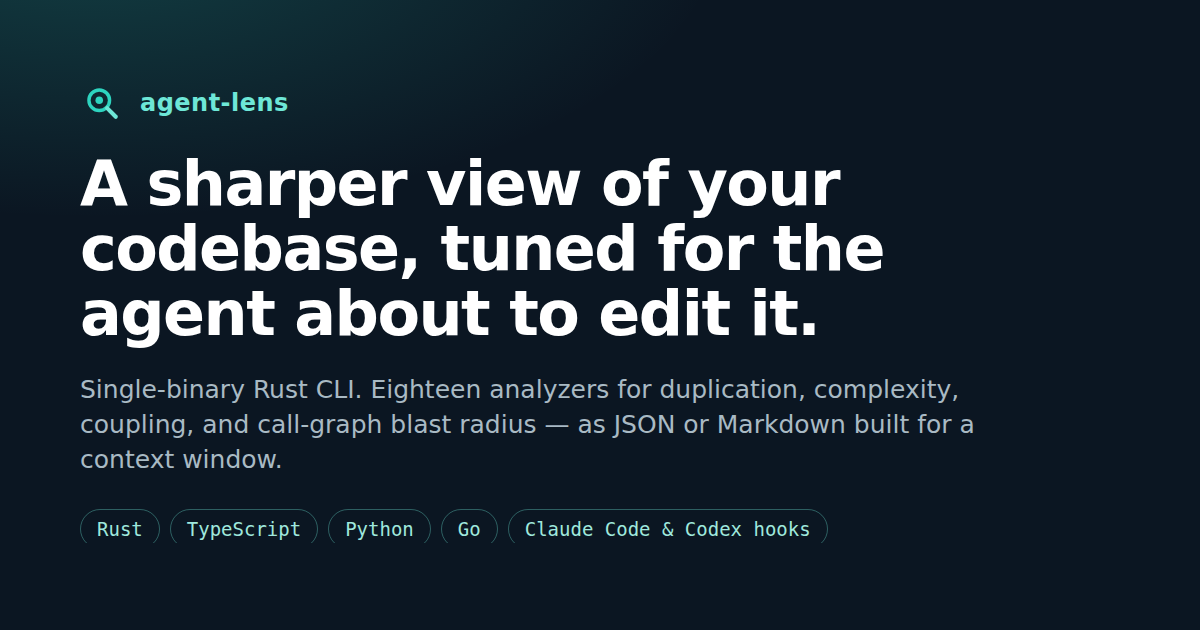
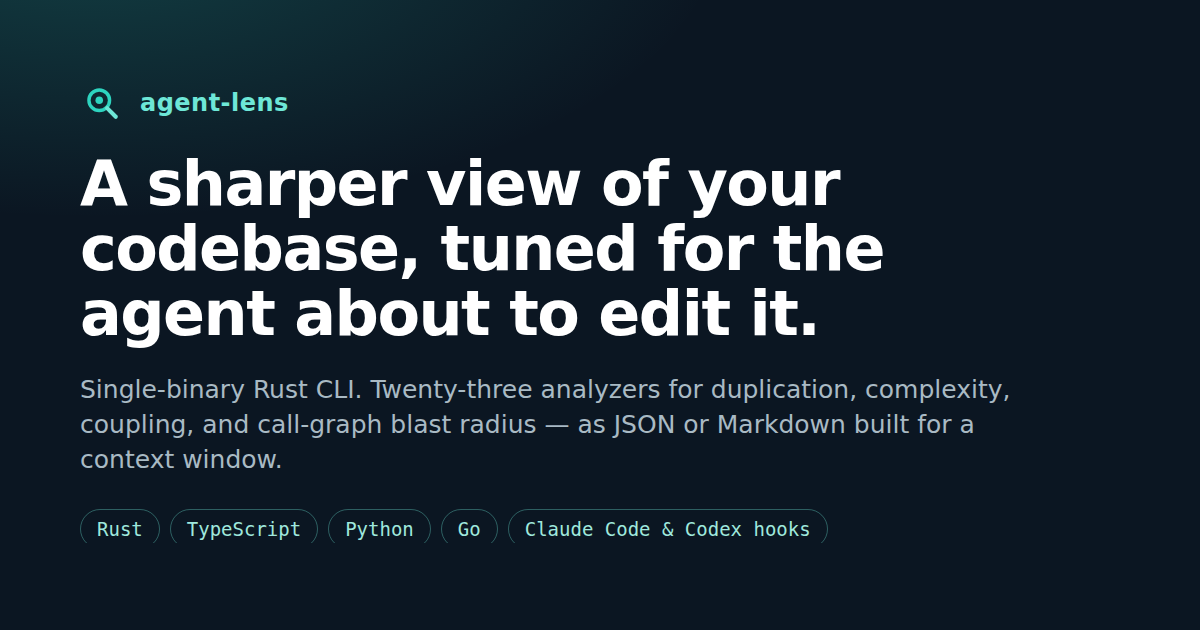
seo(web): refresh stale analyzer copy and complete social meta tags (#476)
The prerendered landing page is what crawlers index, and its copy had
drifted from the CLI it describes: the hero strip said 18 analyzers, the
catalogue heading said eighteen, the pillar card said twenty, while the
CLI ships 23 — with `search` and `change-entropy` missing from the
catalogue entirely. Sync all three numbers to 23, add the two missing
analyzers (a Retrieval group for `search`, `change-entropy` under Change
risk), note the language-agnostic git-history analyzers in the FAQ, and
regenerate the OG card image from the corrected template.

Also fill the remaining social-preview gaps: `og:locale`,
`og:image:alt`, and `twitter:image:alt`, with tests asserting all three
on every page.

Claude-Session: https://claude.ai/code/session_01K11vKKR8g2SBmwFyttVGWA

Changed region(s): [[0.3083, 0.6032, 0.8325, 0.6333]]

diff --git a/web/src/content.ts b/web/src/content.ts
@@ -44,7 +44,7 @@ export type Stat = {
 
 /** The hero strip. Four numbers a reader can check against the repository. */
 export const STATS: readonly Stat[] = [
-  { label: "Analyzers", value: "18" },
+  { label: "Analyzers", value: "23" },
   { label: "Languages", value: "4" },
   { label: "Hook handlers", value: "5" },
   { label: "Telemetry", value: "0" },
@@ -65,7 +65,7 @@ export const PILLARS: readonly Pillar[] = [
   },
   {
     title: "Analyzers",
-    body: "Twenty on-demand analyses of code shape — duplication, complexity, coupling, call-graph structure, change risk. JSON on stdout by default, compact Markdown with --format md, both sized to drop straight into a prompt.",
+    body: "Twenty-three on-demand analyses of code shape — code search, duplication, complexity, coupling, call-graph structure, change risk. JSON on stdout by default, compact Markdown with --format md, both sized to drop straight into a prompt.",
     command: "agent-lens analyze similarity src --format md",
   },
   {
@@ -97,6 +97,17 @@ export type AnalyzerGroup = {
 };
 
 export const ANALYZER_GROUPS: readonly AnalyzerGroup[] = [
+  {
+    title: "Retrieval",
+    blurb: "Where the codebase does X, when the identifier is not known.",
+    analyzers: [
+      {
+        name: "search",
+        summary:
+          "Functions ranked by BM25F relevance to a query, tokenized the way identifiers are written — _, camelCase, and the joined form all index as one term. --rank graph re-orders the top hits by call-graph importance so the load-bearing match leads.",
+      },
+    ],
+  },
   {
     title: "Duplication and indirection",
     blurb: "What already exists, and how many hops sit between the caller and the work.",
@@ -226,6 +237,11 @@ export const ANALYZER_GROUPS: readonly AnalyzerGroup[] = [
           "File pairs git history says change together, with the confidence in each direction and the lift that separates a pattern from two merely busy files (any file type).",
       },
       {
+        name: "change-entropy",
+        summary:
+          "How scattered each period's change activity was — Shannon entropy of the changed lines per file, summed into a per-file history complexity. --diff-only scores the pending change's scatter against the repository's own commits (any file type).",
+      },
+      {
         name: "hidden-coupling",
         summary:
           "The differential: pairs that co-change with no declared dependency between them, and declared dependencies the window never exercised, kept as two separate buckets.",
@@ -289,7 +305,7 @@ export const FAQ: readonly FaqEntry[] = [
   {
     question: "Which languages does it analyze?",
     answer:
-      "Rust, TypeScript / JavaScript, Python, and Go. Every analyzer runs on all four except unreachable and visibility, which need extracted export status and are wired through the Rust and Go adapters only. Analysis is split into a language-neutral core and per-language adapters, so adding a language means writing one adapter crate rather than reimplementing the metrics.",
+      "Rust, TypeScript / JavaScript, Python, and Go. Every analyzer runs on all four except unreachable and visibility, which need extracted export status and are wired through the Rust and Go adapters only. The git-history analyzers — co-change and change-entropy — read git log rather than parsing files, so they cover anything the repository tracks. Analysis is split into a language-neutral core and per-language adapters, so adding a language means writing one adapter crate rather than reimplementing the metrics.",
   },
   {
     question: "Do I have to use it through a coding agent?",

diff --git a/web/src/seo.ts b/web/src/seo.ts
@@ -24,6 +24,8 @@ export const LICENSE_URL = `${REPOSITORY_URL}/blob/main/LICENSE`;
 export const README_URL = `${REPOSITORY_URL}#readme`;
 
 const OG_IMAGE = "og-image.png";
+const OG_IMAGE_ALT = "agent-lens — code analysis built for coding agents";
+const OG_LOCALE = "en_US";
 
 export type PageSeo = {
   /** Route path, as the router spells it. */
@@ -90,16 +92,19 @@ export function pageHead(page: PageSeo, structuredData: object[] = []): HeadTags
       { name: "robots", content: "index, follow" },
       { property: "og:type", content: "website" },
       { property: "og:site_name", content: SITE_NAME },
+      { property: "og:locale", content: OG_LOCALE },
       { property: "og:title", content: page.title },
       { property: "og:description", content: page.description },
       { property: "og:url", content: url },
       { property: "og:image", content: assetUrl(OG_IMAGE) },
       { property: "og:image:width", content: "1200" },
       { property: "og:image:height", content: "630" },
+      { property: "og:image:alt", content: OG_IMAGE_ALT },
       { name: "twitter:card", content: "summary_large_image" },
       { name: "twitter:title", content: page.title },
       { name: "twitter:description", content: page.description },
       { name: "twitter:image", content: assetUrl(OG_IMAGE) },
+      { name: "twitter:image:alt", content: OG_IMAGE_ALT },
     ],
     links: [{ rel: "canonical", href: url }],
     scripts: structuredData.map((data) => ({

diff --git a/web/src/seo.test.ts b/web/src/seo.test.ts
@@ -83,6 +83,13 @@ describe("pageHead", () => {
     expect(metaContent(PAGES.home, "property", "og:image")).toBe(`${SITE_URL}/og-image.png`);
   });
 
+  it.each(ALL_PAGES)("declares the locale and describes the card image of $path", (page) => {
+    expect(metaContent(page, "property", "og:locale")).toBe("en_US");
+    const alt = metaContent(page, "property", "og:image:alt");
+    expect(alt).toBeTruthy();
+    expect(metaContent(page, "name", "twitter:image:alt")).toBe(alt);
+  });
+
   it("emits no script tag when a page has no structured data", () => {
     expect(pageHead(PAGES.analyze).scripts).toEqual([]);
   });

diff --git a/web/tools/og-image.html b/web/tools/og-image.html
@@ -97,7 +97,7 @@
     </div>
     <h1>A sharper view of your codebase, tuned for the agent about to edit it.</h1>
     <p>
-      Single-binary Rust CLI. Eighteen analyzers for duplication, complexity, coupling, and
+      Single-binary Rust CLI. Twenty-three analyzers for duplication, complexity, coupling, and
       call-graph blast radius — as JSON or Markdown built for a context window.
     </p>
     <div class="strip">

diff --git a/web/src/components/LandingPage.tsx b/web/src/components/LandingPage.tsx
@@ -188,7 +188,7 @@ function AnalyzerSection() {
     <Band
       id="analyzers"
       kicker="The catalogue"
-      title="Eighteen analyzers"
+      title="Twenty-three analyzers"
       intro={
         <>
           Each one is a subcommand: <code>agent-lens analyze &lt;tool&gt; &lt;path&gt;</code>. JSON
